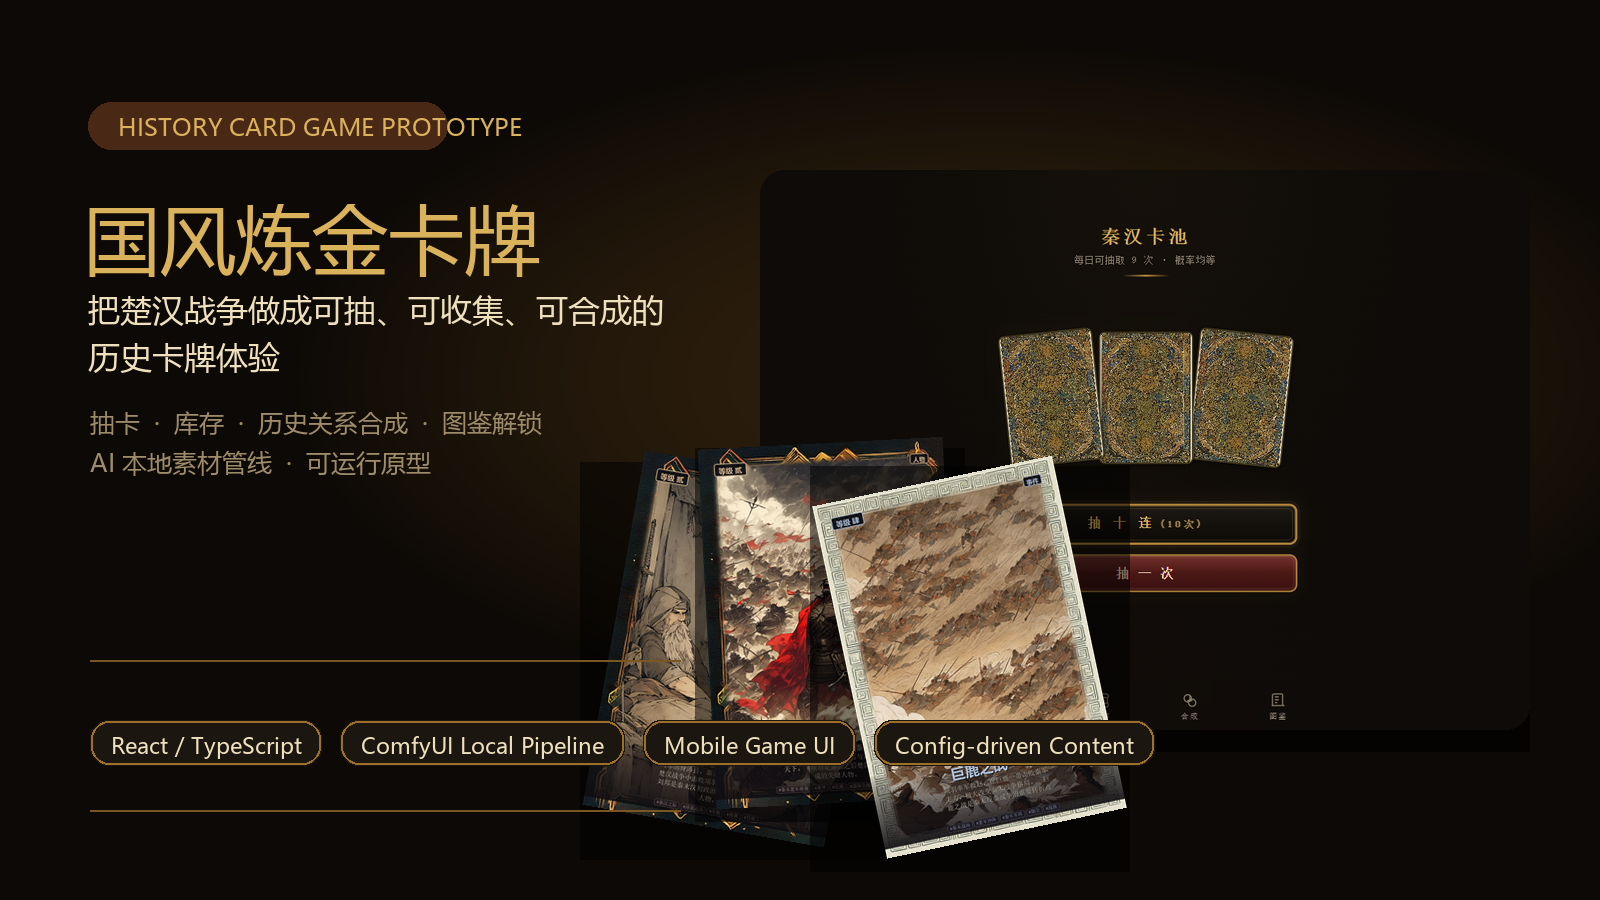
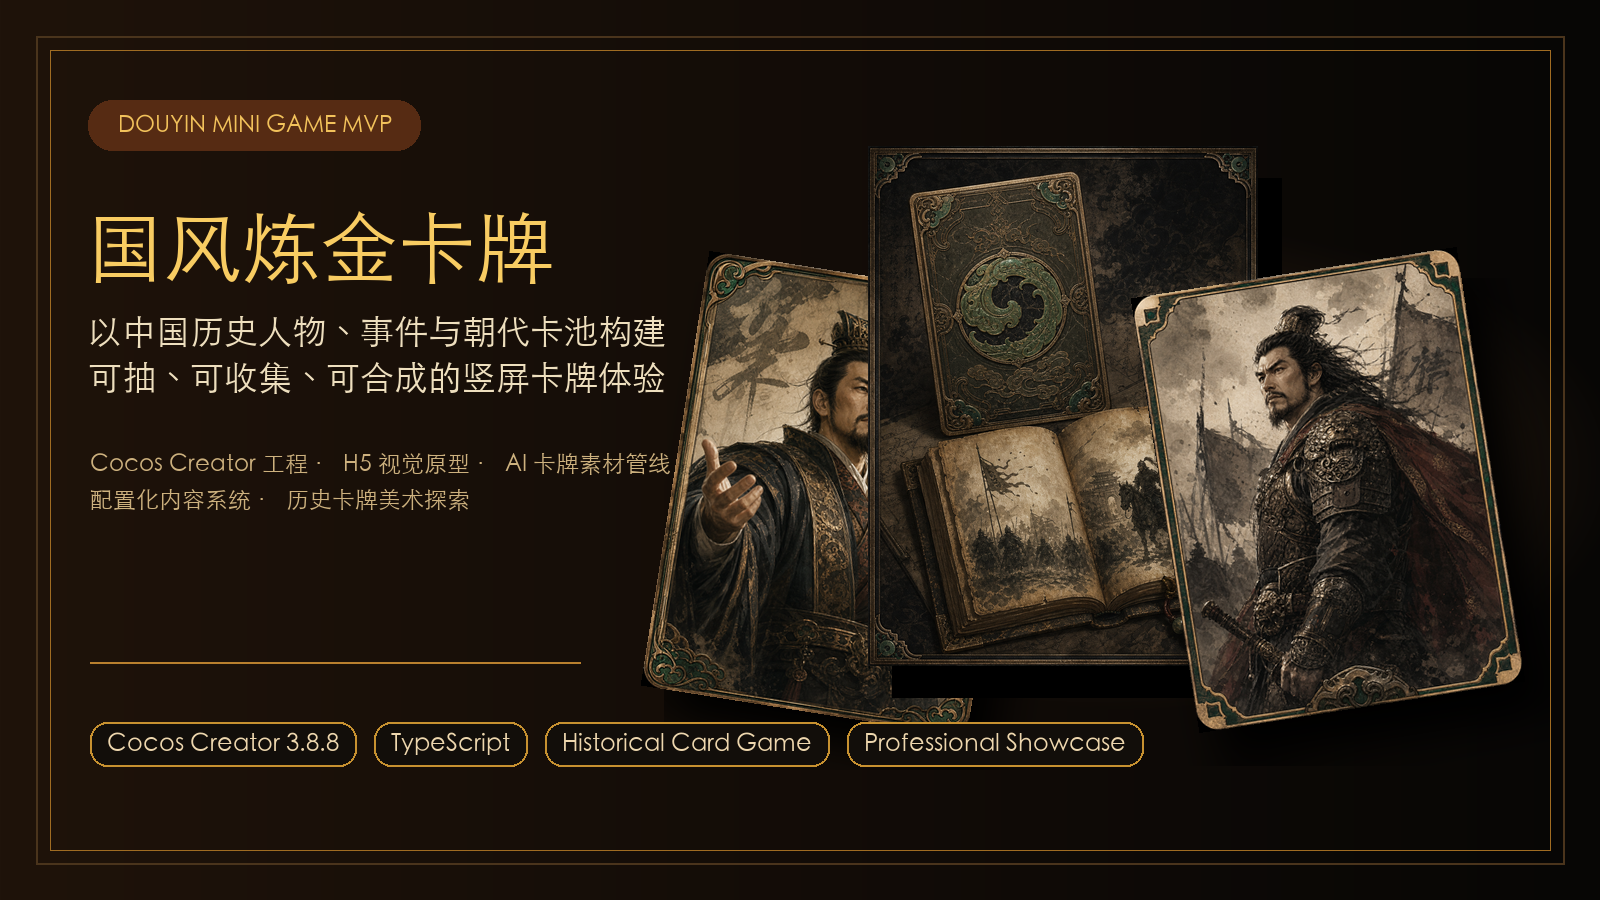
Enhance showcase card art for GitHub

Changed region(s): [[0.0312, 0.1556, 0.9688, 0.9644], [0.0312, 0.0311, 0.9688, 0.0622], [0.0625, 0.0933, 0.3438, 0.1867]]

diff --git a/README.md b/README.md
@@ -57,6 +57,10 @@
 </p>
 
 <p align="center">
+  <img src="docs/showcase/premium-card-art.jpg" alt="国风炼金卡牌高质量卡牌视觉探索" width="100%" />
+</p>
+
+<p align="center">
   <img src="docs/showcase/readme-card-wall.png" alt="国风炼金卡牌卡牌视觉资产展示" width="100%" />
 </p>
 

diff --git a/docs/showcase/README.md b/docs/showcase/README.md
@@ -7,6 +7,7 @@
 - `readme-hero.png`：仓库首页封面图。
 - `readme-preview.gif`：前端原型动图预览。
 - `readme-screens.png`：抽卡、库存、卡牌详情等移动端界面展示。
+- `premium-card-art.jpg`：高质量卡牌视觉探索组合图，来自 H5 原型中的刘邦、项羽与古籍卡背素材。
 - `readme-card-wall.png`：卡牌视觉资产墙。
 - `readme-asset-pipeline.png`：本地 AI 素材生成管线展示。
 - `frontend-draw.png`、`frontend-inventory.png`、`frontend-card-detail.png`：单页界面截图。
@@ -14,6 +15,6 @@
 ## 使用原则
 
 - README 首屏优先使用 `readme-hero.png` 和 `readme-preview.gif`。
-- 产品介绍页可以使用 `readme-screens.png` 与 `readme-card-wall.png`。
+- 产品介绍页可以使用 `readme-screens.png`、`premium-card-art.jpg` 与 `readme-card-wall.png`。
 - 技术或素材管线文档可以使用 `readme-asset-pipeline.png`。
 - 若后续替换图片，应保持文件名稳定，避免 README 链接失效。